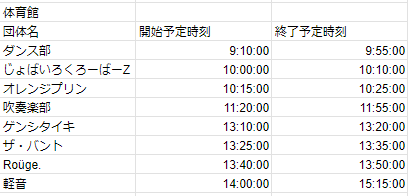
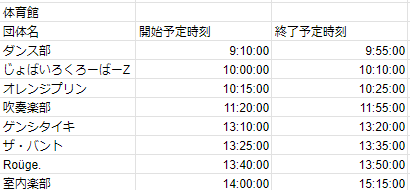
a

Changed region(s): [[0.0, 0.0, 1.0, 1.0], [0.0, 0.0263, 0.1176, 0.1053]]

diff --git a/detail.html b/detail.html
@@ -64,10 +64,9 @@
 
         <div id="popup_message"></div>
     </div>
-    <p class="reset">現在工事中です</p>
+    <p class="reset">現在工事中です。随時追加していきます。</p>
     <img class="reset" src="images/工事中.png"
         style="width:50%; border-width: 1px; border-style: solid; border-color: #000000;"></img>
-     <!--
     <div class="reset">
         <div class="container" id="koya">
             <div class="place_name_box">
@@ -82,11 +81,123 @@
             <h4 class="dantai_name">立高祭実行委員会</h4>
 
         </div>
-    </div>-->
-    
-    <!-- ここから -->
-    <!-- ここまで -->
+    </div>
 
+    <!--クラ発-->
+    <div id="htmlcode">      <div id="1A"></div>     <div class="container">         <div class="place_name_box">             <span class="kikaku_name" id="form_kikaku_name">立高寺の変</span>             <span class="place_name" id="form_place_name">1A</span>         </div>         <h6 class="time" id="form_time">立高祭全日程</h6>         <h6 class="time" id="form_time2"></h6>         <div class="syokai">             <h5 class="naiyou" id="form_naiyou">ー時は戦国、明智光秀の襲撃の日ー <br>目が覚めるとあなたは織田信長に成り代わってしまっていた。炎の手が迫る中、4つの関門を突破し立高寺から脱出せよ！<br> 「あなたが脱出したとき歴史が変わる。」</h5>         </div>         <h3 class="dantai_name" id="form_dantai_name">1A</h3>         <h3 class="url" id="form_url">tckw79th_1a</h3>     </div>          </div>
+    <div id="htmlcode">      <div id="1C"></div>     <div class="container">         <div class="place_name_box">             <span class="kikaku_name" id="form_kikaku_name">トモダチとーこだ</span>             <span class="place_name" id="form_place_name">1C</span>         </div>         <h6 class="time" id="form_time">立高祭全日程</h6>         <h6 class="time" id="form_time2"></h6>         <div class="syokai">             <h5 class="naiyou" id="form_naiyou">ある日、友達が失踪した。2週間が経ったが、残された情報は｢廃校へ行った｣ということだけ・・・やはりそこに何かあるのか？行かなきゃ！     さぁ、友達を探しに行こう</h5>         </div>         <h3 class="dantai_name" id="form_dantai_name"></h3>         <h3 class="url" id="form_url">@tckw1c_campion</h3>     </div>          </div>
+    <div id="htmlcode">      <div id="1D"></div>     <div class="container">         <div class="place_name_box">             <span class="kikaku_name" id="form_kikaku_name">vs 1D</span>             <span class="place_name" id="form_place_name">1D</span>         </div>         <h6 class="time" id="form_time">立高祭全日程</h6>         <h6 class="time" id="form_time2"></h6>         <div class="syokai">             <h5 class="naiyou" id="form_naiyou">体験型アトラクションです！全力で楽しめること間違いなし！！世界一愉快な1Dの仲間たちであなたをお待ちしています！</h5>         </div>         <h3 class="dantai_name" id="form_dantai_name">1-D</h3>         <h3 class="url" id="form_url">tckw_1d</h3>     </div>          </div>
+    <div id="htmlcode">      <div id="1F"></div>     <div class="container">         <div class="place_name_box">             <span class="kikaku_name" id="form_kikaku_name">逆転人生 in Las Vegas</span>             <span class="place_name" id="form_place_name">1F</span>         </div>         <h6 class="time" id="form_time">立高祭全日程</h6>         <h6 class="time" id="form_time2"></h6>         <div class="syokai">             <h5 class="naiyou" id="form_naiyou">立高のラスベガスでカジノ二挑戦し&lt;br&gt;景品をゲットそよう！</h5>         </div>         <h3 class="dantai_name" id="form_dantai_name">1-F</h3>         <h3 class="url" id="form_url">tckw_79th_1f</h3>     </div>          </div>
+    <div id="htmlcode">      <div id="1G"></div>     <div class="container">         <div class="place_name_box">             <span class="kikaku_name" id="form_kikaku_name">発表名SPY×GAME</span>             <span class="place_name" id="form_place_name">1G</span>         </div>         <h6 class="time" id="form_time">立高祭全日程</h6>         <h6 class="time" id="form_time2"></h6>         <div class="syokai">             <h5 class="naiyou" id="form_naiyou">レーザーや暗号解き、シューティングをクリアして幻のレシピを取り返せ！！</h5>         </div>         <h3 class="dantai_name" id="form_dantai_name">1-G</h3>         <h3 class="url" id="form_url">tachiko79_1g</h3>     </div>          </div>
+    <div id="htmlcode">      <div id="1H"></div>     <div class="container">         <div class="place_name_box">             <span class="kikaku_name" id="form_kikaku_name">余命t分〜H爆弾を解除せよ〜</span>             <span class="place_name" id="form_place_name">1H</span>         </div>         <h6 class="time" id="form_time">立高祭全日程</h6>         <h6 class="time" id="form_time2"></h6>         <div class="syokai">             <h5 class="naiyou" id="form_naiyou">とある研究所に爆破予告が届いた…br諸君に告ぐ！研究所内に設置された謎を解き、爆弾を解除してくれ！！(何回来て頂いても楽しめるので、是非来て下さい！)</h5>         </div>         <h3 class="dantai_name" id="form_dantai_name">1-H</h3>         <h3 class="url" id="form_url">@tckw_79th_csam</h3>     </div>          </div>
+    <div id="htmlcode">      <div id="2B"></div>     <div class="container">         <div class="place_name_box">             <span class="kikaku_name" id="form_kikaku_name">黒板消し挟んだの、誰？</span>             <span class="place_name" id="form_place_name">2B</span>         </div>         <h6 class="time" id="form_time">立高祭全日程</h6>         <h6 class="time" id="form_time2"></h6>         <div class="syokai">             <h5 class="naiyou" id="form_naiyou">「黒板消し挟んだの、誰？」古風ないたずらから始まる、奇想天外ドタバタコメディ！あなたはきっと笑って笑って最後に涙する…？</h5>         </div>         <h3 class="dantai_name" id="form_dantai_name">2-B</h3>         <h3 class="url" id="form_url"> tckw2b_78th</h3>     </div>          </div>
+    <div id="htmlcode">      <div id="2F"></div>     <div class="container">         <div class="place_name_box">             <span class="kikaku_name" id="form_kikaku_name">私が犯人じゃないっていう<br>証拠でもあるのか！！</span>             <span class="place_name" id="form_place_name">2F</span>         </div>         <h6 class="time" id="form_time">高祭全日程</h6>         <h6 class="time" id="form_time2">詳細はパンフレットに！</h6>         <div class="syokai">             <h5 class="naiyou" id="form_naiyou">解決不可能？笑いありの大人の青春サスペンス！</h5>         </div>         <h3 class="dantai_name" id="form_dantai_name">2-F</h3>         <h3 class="url" id="form_url">tachikawa78_2f</h3> </div>          </div>
+    <div id="htmlcode">      <div id="2H"></div>     <div class="container">         <div class="place_name_box">             <span class="kikaku_name" id="form_kikaku_name">呪って！魔法少女</span>             <span class="place_name" id="form_place_name">2H</span>         </div>         <h6 class="time" id="form_time">1日目 9:30～10:15 14:30～15:15</h6>         <h6 class="time" id="form_time2">2日目 13:15～14:00 14:30～15:15</h6>         <div class="syokai">             <h5 class="naiyou" id="form_naiyou">主人公の月野は少女漫画家兼魔法少女を目指す25歳の男。人気漫画家である巴が休載したことにより、ミステリー物専門の漫画家・松木とタッグを組んで魔法少女の漫画を書くことになったのだった…魔法少女が2人をつなぐ、ラブコメディです！</h5>         </div>         <h3 class="dantai_name" id="form_dantai_name">2-H</h3>         <h3 class="url" id="form_url">@tckw78thsr.h</h3>     </div>          </div>
+    <div id="htmlcode">      <div id="3C"></div>     <div class="container">         <div class="place_name_box">             <span class="kikaku_name" id="form_kikaku_name">立高万博2024</span>             <span class="place_name" id="form_place_name">3C</span>         </div>         <h6 class="time" id="form_time">立高祭全日程</h6>         <h6 class="time" id="form_time2"></h6>         <div class="syokai">             <h5 class="naiyou" id="form_naiyou">大阪万博に先駆け開催！世界各国の文化をテーマにしたゲームでハイスコアを目指そう！気分はまるで世界旅行！？</h5>         </div>         <h3 class="dantai_name" id="form_dantai_name">3-C</h3>         <h3 class="url" id="form_url"></h3>     </div>          </div>
+    <div id="htmlcode">      <div id="3E"></div>     <div class="container">         <div class="place_name_box">             <span class="kikaku_name" id="form_kikaku_name">折神祭祀</span>             <span class="place_name" id="form_place_name">3E</span>         </div>         <h6 class="time" id="form_time">立高祭全日程</h6>         <h6 class="time" id="form_time2"></h6>         <div class="syokai">             <h5 class="naiyou" id="form_naiyou">折紙の折紙による「折神」のための祭り、折神祭祀いざ開幕！</h5>         </div>         <h3 class="dantai_name" id="form_dantai_name">3-E</h3>         <h3 class="url" id="form_url">tachikawa77_3e</h3>     </div>          </div>
+    <div id="htmlcode">      <div id="3G"></div>     <div class="container">         <div class="place_name_box">             <span class="kikaku_name" id="form_kikaku_name">懺花</span>             <span class="place_name" id="form_place_name">3G</span>         </div>         <h6 class="time" id="form_time">立高祭全日程</h6>         <h6 class="time" id="form_time2"></h6>         <div class="syokai">             <h5 class="naiyou" id="form_naiyou">ある男は妻と子供たちと幸せに暮らしていたが、町の骨董品店で美しい日本人形を購入してから、徐々に狂気に取り憑かれる。人形の囁きに従い、彼は家族を襲って命を奪い、その後後悔に苛まれながらも人形と共に狂気の人生を送る。囁きは今も続く。</h5>         </div>         <h3 class="dantai_name" id="form_dantai_name">3-G</h3>         <h3 class="url" id="form_url">@tckw77th_3g</h3>     </div>          </div>
+    <!--体育館-->   
+    <div id="htmlcode">      <div id="gym"></div>     <div class="container">         <div class="place_name_box">             <span class="kikaku_name" id="form_kikaku_name">ダンス部公演</span>             <span class="place_name" id="form_place_name">体育館</span>         </div>         <h6 class="time" id="form_time">9月7日　11:15-12:05</h6>         <h6 class="time" id="form_time2">9月8日　9:10-9:55</h6>         <div class="syokai">             <h5 class="naiyou" id="form_naiyou">みんなで盛り上げまくって体育館サウナにしましょう</h5>         </div>         <h3 class="dantai_name" id="form_dantai_name">ダンス部</h3>         <h3 class="url" id="form_url">tckwdanceofficial </h3>     </div>          </div>
+    <div id="htmlcode">      <div id="gym"></div>     <div class="container">         <div class="place_name_box">             <span class="kikaku_name" id="form_kikaku_name">TWICE By Poppin girls</span>             <span class="place_name" id="form_place_name">体育館</span>         </div>         <h6 class="time" id="form_time">立高祭1日目</h6>         <h6 class="time" id="form_time2">12:25~12:35</h6>         <div class="syokai">             <h5 class="naiyou" id="form_naiyou">TWICE、ダンス が大好きな9人の少女が集まって結成した1年有志ダンスチームです！可愛く、全力で踊ります💕ぜひ会場に来て私たちと一緒に盛り上がりましょう！応援よろしくおねがいします😽</h5>         </div>         <h3 class="dantai_name" id="form_dantai_name">Poppin girls</h3>         <h3 class="url" id="form_url">poppingirls_</h3>     </div>          </div>
+    <div id="htmlcode">      <div id="gym"></div>     <div class="container">         <div class="place_name_box">             <span class="kikaku_name" id="form_kikaku_name">One night carnival </span>             <span class="place_name" id="form_place_name">体育館</span>         </div>         <h6 class="time" id="form_time">9月8日</h6>         <h6 class="time" id="form_time2"></h6>         <div class="syokai">             <h5 class="naiyou" id="form_naiyou">俺んとこ来ないか？</h5>         </div>         <h3 class="dantai_name" id="form_dantai_name">センチメンタル・ジプシーズ</h3>         <h3 class="url" id="form_url"></h3> </div>          </div>
+    <div id="htmlcode">      <div id="gym"></div>     <div class="container">         <div class="place_name_box">             <span class="kikaku_name" id="form_kikaku_name">じょばいろクローバーZ</span>             <span class="place_name" id="form_place_name">体育館</span>         </div>         <h6 class="time" id="form_time">9/8</h6>         <h6 class="time" id="form_time2">10:00~10:10</h6>         <div class="syokai">             <h5 class="naiyou" id="form_naiyou">歌って踊るアイドルグループ！🫶&lt;br&gt;いっぱい推してください⭐</h5>         </div>         <h3 class="dantai_name" id="form_dantai_name">女子バスケ部</h3>         <h3 class="url" id="form_url"></h3>     </div>          </div>
+    <!--トレル-->
+    <!--体育館とトレル-->
+    <div id="htmlcode">      <div id="gym"></div>     <div class="container">         <div class="place_name_box">             <span class="kikaku_name" id="form_kikaku_name">室内楽部文化祭コンサート</span>             <span class="place_name" id="form_place_name">7日体育館<br>8日トレーニングルーム</span>         </div>         <h6 class="time" id="form_time">７日14:00~ 8日13:10~</h6>         <h6 class="time" id="form_time2"></h6>         <div class="syokai">             <h5 class="naiyou" id="form_naiyou">ディズニーメドレーや天国と地獄などを演奏します！是非お越しください！</h5>         </div>         <h3 class="dantai_name" id="form_dantai_name">室内楽部</h3>         <h3 class="url" id="form_url">tckw_strings</h3>     </div>          </div>
+    <!--校内全域-->
+    <div id="htmlcode">      <div id="koya"></div>     <div class="container">         <div class="place_name_box">             <span class="kikaku_name" id="form_kikaku_name">スタンプラリー</span>             <span class="place_name" id="form_place_name">校内全域</span>         </div>         <h6 class="time" id="form_time">立高祭全日程</h6>         <h6 class="time" id="form_time2"></h6>         <div class="syokai">             <h5 class="naiyou" id="form_naiyou">立高系Vtuber達のスタンプラリーです。校内に散らばる全てのスタンプを押して、絵を完成させよう！</h5>         </div>         <h3 class="dantai_name" id="form_dantai_name"></h3>         <h3 class="url" id="form_url"></h3> </div>          </div>
+    <!--一階-->
+    <div id="htmlcode">      <div id="sado"></div>     <div class="container">         <div class="place_name_box">             <span class="kikaku_name" id="form_kikaku_name">お茶会</span>             <span class="place_name" id="form_place_name">和室</span>         </div>         <h6 class="time" id="form_time">9月7日</h6>         <h6 class="time" id="form_time2">9月8日</h6>         <div class="syokai">             <h5 class="naiyou" id="form_naiyou">美味しいお茶とお菓子でおもてなしするので是非いらしてください。作法が分からなくても大歓迎です！</h5>         </div>         <h3 class="dantai_name" id="form_dantai_name">茶道部</h3>         <h3 class="url" id="form_url">tckw_sado78th</h3></div>          </div>
+    <!--二階-->
+    <div id="htmlcode">      <div id="syokuinmae"></div>     <div class="container">         <div class="place_name_box">             <span class="kikaku_name" id="form_kikaku_name">漫画部ワーク<br>ショップ</span>             <span class="place_name" id="form_place_name">二階職員室前</span>         </div>         <h6 class="time" id="form_time">立高祭全日程</h6>         <h6 class="time" id="form_time2"></h6>         <div class="syokai">             <h5 class="naiyou" id="form_naiyou">部誌の頒布、イラストリクエストの受付、部活体験などを行っています！ぜひお立ち寄りください！</h5>         </div>         <h3 class="dantai_name" id="form_dantai_name">漫画部</h3>         <h3 class="url" id="form_url">tckw_manga</h3>     </div>          </div>
+    <!--三階-->
+    <div id="htmlcode">      <div id="sangaku"></div>     <div class="container">         <div class="place_name_box">             <span class="kikaku_name" id="form_kikaku_name">やまのおへや</span>             <span class="place_name" id="form_place_name">地学実験室</span>         </div>         <h6 class="time" id="form_time">高祭全日程</h6>         <h6 class="time" id="form_time2">土日ともいつでも入れます</h6>         <div class="syokai">             <h5 class="naiyou" id="form_naiyou">今年度に登った山の紹介や、その写真が載ったフォトブックの展示、山頂や展望台からの風景の再生(テレビ)などを行っております。他にもテントに入れたりザックを背負う体験などもできるので是非来てください！</h5>         </div>         <h3 class="dantai_name" id="form_dantai_name">山岳部</h3>         <h3 class="url" id="form_url">tckw_sangaku</h3>     </div>          </div>
+    <!--四階-->
+    <div id="htmlcode">      <div id="butsuri"></div>     <div class="container">         <div class="place_name_box">             <span class="kikaku_name" id="form_kikaku_name">powered by physics</span>             <span class="place_name" id="form_place_name">4F物理室</span>         </div>         <h6 class="time" id="form_time">9月7日</h6>         <h6 class="time" id="form_time2">9月8日</h6>         <div class="syokai">             <h5 class="naiyou" id="form_naiyou">実際に見たり触ったりできる実験展示を行います！<br>両日11:00と、14:00からは実際に作成して学べるワークショップを行います！！<br>ぜひ来てください！！</h5>         </div>         <h3 class="dantai_name" id="form_dantai_name">物理部</h3>         <h3 class="url" id="form_url"></h3>     </div>          </div>
+    <!--五階-->
 </body>
 
 </html>
+<!--マップ-->
+<!--
+// floor1
+floor1_points = [
+    [35.692625, 139.412274, "detail.html#toreru", "トレーニングルーム", 0],
+    [35.692380, 139.412610, "detail.html#sado", "和室", 0],
+    [35.692412, 139.412511, "", "保健室", 0],
+    [35.692325, 139.412765, "", "進路室", 0],
+    [35.692260, 139.412950, "", "経営企画室", 0],
+    [35.693245, 139.412545, "", "柔道場", 0],
+    [35.693162, 139.412508, "", "剣道場", 0],
+    [35.692431, 139.412845, "", "トイレ", 0],
+    [35.692747, 139.412998, "detail.html#kougei", "工芸室", 0],
+    [35.692568, 139.413470, "", "美術室", 0],
+    [35.692425, 139.413047, "detail.html#firsthall", "ホール", 0],
+    [35.692632, 139.413262, "", "トイレ", 0],
+    [35.692665, 139.413665, "", "部室棟", 0],
+    [35.692595, 139.413062, "detail.html#genkan", "玄関ホール", 0]
+];
+// floor2
+floor2_points = [
+    [35.692625, 139.412274, "detail.html#gym", "体育館", 0],
+    // [35.693175, 139.412508, "", "格技棟", 0],
+    [35.692420, 139.412480, "detail.html#1A", "1A教室", 0],
+    [35.692390, 139.412575, "detail.html#1B", "1B教室", 0],
+    [35.692355, 139.412670, "detail.html#1C", "1C教室", 0],
+    [35.692325, 139.412765, "detail.html#1D", "1D教室", 0],
+    [35.692260, 139.412950, "detail.html#1E", "1E教室", 0],
+    [35.692230, 139.413045, "detail.html#1F", "1F教室", 0],
+    [35.692190, 139.413135, "detail.html#1G", "1G教室", 0],
+    [35.692160, 139.413225, "detail.html#1H", "1H教室", 0],
+    [35.692431, 139.412845, "", "トイレ", 0],
+    [35.692943, 139.412932, "detail.html#pasodo", "CPU室", 0],
+    [35.692930, 139.413000, "detail.html#risuukougi", "理数講義室", 0],
+    [35.692428, 139.413029, "detail.html#koya", "小屋", 0],
+    [35.692612, 139.413144, "detail.html#syokuinmae", "職員室前", 0],
+    [35.692518, 139.412920, "detail.html#koyamae", "小屋前", 0],
+    [35.692568, 139.413470, "", "自習室", 0]
+];
+// floor3
+floor3_points = [
+    [35.692420, 139.412480, "detail.html#2A", "2A教室", 0],
+    [35.692390, 139.412575, "detail.html#2B", "2B教室", 0],
+    [35.692355, 139.412670, "detail.html#2C", "2C教室", 0],
+    [35.692325, 139.412765, "detail.html#2D", "2D教室", 0],
+    [35.692260, 139.412950, "detail.html#2E", "2E教室", 0],
+    [35.692230, 139.413045, "detail.html#2F", "2F教室", 0],
+    [35.692190, 139.413135, "detail.html#2G", "2G教室", 0],
+    [35.692160, 139.413225, "detail.html#2H", "2H教室", 0],
+    [35.692431, 139.412845, "", "トイレ", 0],
+    [35.692498, 139.412888, "detail.html#secondseibitu", "第2生物実験室", 0],
+    [35.692657, 139.412978, "detail.html#tosyo", "図書室", 0],
+    [35.692450, 139.413038, "detail.html#sangaku", "地学室", 0],
+    [35.692700, 139.413182, "detail.html#seibutsu", "生物室", 0],
+    [35.692943, 139.412932, "detail.html#kuiken", "社会科教室", 0],
+    [35.692846, 139.413215, "detail.html#engeki", "会議室", 0],
+    [35.692874, 139.413130, "detail.html#kaigi", "会議室", 0],
+    [35.692930, 139.413000, "detail.html#kougi", "講義室", 0],
+];
+// floor4
+floor4_points = [
+    [35.692420, 139.412480, "detail.html#3A", "3A教室", 0],
+    [35.692390, 139.412575, "detail.html#3B", "3B教室", 0],
+    [35.692355, 139.412670, "detail.html#3C", "3C教室", 0],
+    [35.692325, 139.412765, "detail.html#3D", "3D教室", 0],
+    [35.692260, 139.412950, "detail.html#3E", "3E教室", 0],
+    [35.692230, 139.413045, "detail.html#3F", "3F教室", 0],
+    [35.692190, 139.413135, "detail.html#3G", "3G教室", 0],
+    [35.692160, 139.413225, "detail.html#3H", "3H教室", 0],
+    [35.692431, 139.412845, "", "トイレ", 0],
+    [35.692522, 139.412887, "detail.html#shityoukaku", "視聴覚室", 0],
+    [35.692731, 139.412985, "detail.html#kougi", "講義室", 0],
+    [35.692845, 139.413190, "detail.html#secondkagaku", "第二化学実験室", 0],
+    [35.692943, 139.412932, "detail.html#ongaku", "音楽教室", 0],
+    [35.692800, 139.413059, "detail.html#forthhall", "ホール", 0],
+    [35.692666, 139.413169, "detail.html#kagaku", "化学実験室", 0],
+    [35.692475, 139.413056, "detail.html#butsuri", "物理実験室", 0],
+];
+// floor5
+floor5_points = [
+    [35.692431, 139.412845, "detail.html#tenki", "天文気象部", 0]
+];              
+-->
